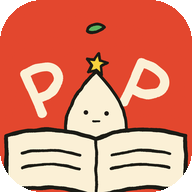
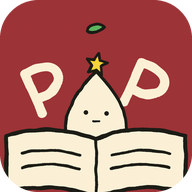
Add files via upload

diff --git a/index.html b/index.html
@@ -16,17 +16,17 @@
 <link rel="preconnect" href="https://fonts.googleapis.com">
 <link rel="preconnect" href="https://fonts.gstatic.com" crossorigin>
 <link rel="stylesheet" href="https://fonts.googleapis.com/css2?family=LXGW+WenKai+TC:wght@400;700&display=swap">
-<link rel="stylesheet" href="https://fonts.googleapis.com/css2?family=Huninn&display=swap">
+<link rel="stylesheet" href="https://fonts.googleapis.com/css2?family=Noto+Serif+TC:wght@400;600;700&display=swap">
 <link rel="stylesheet" href="https://fonts.googleapis.com/css2?family=Noto+Sans+TC:wght@400;500;700&family=Source+Serif+4:opsz,wght@8..60,400;8..60,600&display=swap">
 <style>
 /* Layout: doodle sticker-book shell — cream grainy desk, thick hand-drawn outlines on chrome only (pages stay quiet), greeting + big open-file card with Pip standing on it, bottom tab bar; landscape iPad pins translations in a right column. */
 :root{
   --desk:#FFF2DA; --chrome:#FFFBF1; --ink:#1E1A17; --muted:#6E6155; --line:#1E1A17;
-  --accent:#E8452C; --accent-ink:#1E1A17; --mustard:#F6D23E; --leaf:#5DB35E; --sky:#7DA0BE;
-  --soft:#FFE3D6; --hl:rgba(246,210,62,.6); --sel:rgba(232,69,44,.25);
+  --accent:#9B2F35; --accent-ink:#FFF6EC; --mustard:#F6D23E; --leaf:#5DB35E; --sky:#7DA0BE;
+  --soft:#F6E0DC; --hl:rgba(246,210,62,.6); --sel:rgba(155,47,53,.25);
   --warn-bg:#FFE07A; --warn-ink:#1E1A17; --err:#B5281A;
   --hard:3px 3px 0 var(--line); --hard-lg:5px 5px 0 var(--line);
-  --f-ui:"Huninn","Noto Sans TC","PingFang TC","Microsoft JhengHei",system-ui,sans-serif;
+  --f-ui:"Noto Serif TC","Songti TC","PMingLiU","MingLiU",serif;
   --f-hand:"LXGW WenKai TC","Kaiti TC","DFKai-SB","BiauKai",serif;
   --f-en:"Source Serif 4",Georgia,"Times New Roman",serif;
   --r1:20px 16px 22px 18px; --r2:14px 18px 12px 16px;
@@ -35,12 +35,12 @@
 }
 @media (prefers-color-scheme: dark){:root:not([data-theme="light"]){
   --desk:#221C17; --chrome:#2F2720; --ink:#FFF2DA; --muted:#CDBEAC; --line:#FFF2DA;
-  --accent:#FF6A4D; --accent-ink:#1E1A17; --mustard:#F6D23E; --leaf:#7CCB7D; --sky:#9AB9D3;
+  --accent:#D9606A; --accent-ink:#1E1A17; --mustard:#F6D23E; --leaf:#7CCB7D; --sky:#9AB9D3;
   --soft:#4A2A22; --hl:rgba(246,210,62,.38); --sel:rgba(255,106,77,.32);
   --warn-bg:#5A4712; --warn-ink:#FFF2DA; --err:#FF8A73; color-scheme:dark}}
 :root[data-theme="dark"]{
   --desk:#221C17; --chrome:#2F2720; --ink:#FFF2DA; --muted:#CDBEAC; --line:#FFF2DA;
-  --accent:#FF6A4D; --accent-ink:#1E1A17; --mustard:#F6D23E; --leaf:#7CCB7D; --sky:#9AB9D3;
+  --accent:#D9606A; --accent-ink:#1E1A17; --mustard:#F6D23E; --leaf:#7CCB7D; --sky:#9AB9D3;
   --soft:#4A2A22; --hl:rgba(246,210,62,.38); --sel:rgba(255,106,77,.32);
   --warn-bg:#5A4712; --warn-ink:#FFF2DA; --err:#FF8A73; color-scheme:dark}
 
@@ -116,7 +116,7 @@ body.side #viewer{margin-right:calc(var(--sideW) + 20px)}
 .recent{display:flex;flex-direction:column;gap:12px}
 .rrow{display:flex;align-items:center;gap:14px;padding:12px 16px;background:var(--chrome);border:2.5px solid var(--line);border-radius:var(--r1);cursor:pointer;box-shadow:var(--hard)}
 .rrow:active{transform:translate(2px,2px);box-shadow:1px 1px 0 var(--line)}
-.rrow:nth-child(3n+1) .kind{background:var(--accent)} .rrow:nth-child(3n+2) .kind{background:var(--mustard)} .rrow:nth-child(3n) .kind{background:var(--sky)}
+.rrow:nth-child(3n+1) .kind{background:var(--accent);color:var(--accent-ink)} .rrow:nth-child(3n+2) .kind{background:var(--mustard)} .rrow:nth-child(3n) .kind{background:var(--sky)}
 .kind{flex:none;width:48px;height:48px;border-radius:14px 12px 16px 10px;border:2.5px solid #1E1A17;color:#1E1A17;display:grid;place-items:center;font-weight:700;font-size:15px}
 .rname{flex:1;min-width:0}
 .rname b{display:block;font-size:16.5px;font-weight:700;white-space:nowrap;overflow:hidden;text-overflow:ellipsis}
@@ -146,7 +146,7 @@ body.side #viewer{margin-right:calc(var(--sideW) + 20px)}
 .tabbar{position:fixed;z-index:15;left:50%;transform:translateX(-50%);bottom:calc(12px + env(safe-area-inset-bottom,0px));width:min(620px,calc(100% - 24px));display:grid;grid-template-columns:repeat(5,1fr);gap:6px;padding:6px;background:var(--chrome);border:2.5px solid var(--line);border-radius:26px 22px 28px 24px;box-shadow:var(--hard-lg)}
 .tabbar button{font:inherit;font-size:12.5px;font-weight:700;border:2.5px solid transparent;background:transparent;color:var(--muted);border-radius:18px 14px 20px 16px;padding:6px 4px 5px;display:flex;flex-direction:column;align-items:center;gap:2px;cursor:pointer}
 .tabbar svg{width:24px;height:24px;stroke:currentColor;fill:none;stroke-width:2.2;stroke-linecap:round;stroke-linejoin:round}
-.tabbar button[aria-current="page"]{background:var(--accent);color:#1E1A17;border-color:#1E1A17}
+.tabbar button[aria-current="page"]{background:var(--accent);color:var(--accent-ink);border-color:#1E1A17}
 
 /* translation card: floating (portrait) / bottom sheet (phone) / right column (landscape iPad) */
 #pop{position:fixed;z-index:20;width:400px;max-width:calc(100vw - 24px);max-height:min(60vh,520px);overflow:auto;background:var(--chrome);color:var(--ink);border:2.5px solid var(--line);border-radius:22px 18px 24px 20px;box-shadow:var(--hard-lg);padding:14px 16px 16px}
@@ -347,7 +347,7 @@ body.annon #focusExit{display:none}
 body.annon #pop.side{bottom:calc(120px + env(safe-area-inset-bottom,0px))}
 #annBar .done{background:var(--accent);color:var(--accent-ink);font:inherit;font-weight:700;border:2px solid var(--line);border-radius:11px;padding:3px 12px;min-height:32px;cursor:pointer}
 #capLayer{position:fixed;z-index:40;cursor:crosshair;background:rgba(30,26,23,.12);touch-action:none}
-#capBox{position:absolute;border:2.5px dashed var(--accent);background:rgba(232,69,44,.08)}
+#capBox{position:absolute;border:2.5px dashed var(--accent);background:rgba(155,47,53,.1)}
 .capcancel{position:absolute;top:10px;left:50%;transform:translateX(-50%);font:700 14px var(--f-ui);border:2.5px solid #1E1A17;border-radius:12px;background:var(--mustard);color:#1E1A17;padding:6px 12px;cursor:pointer}
 /* highlight colors */
 .tl span.mk-y,#article .ap.mk-y{background:rgba(242,190,30,.4)}
@@ -2499,6 +2499,7 @@ function eraseAt(S,p,cur){
     if(st.pts.some((q,j)=>segD(p,j?st.pts[j-1]:q,q)<rr)){ cur.removed.push({s:st,i}); arr.splice(i,1); hit=true; } }
   if(hit) paintSurface(S);
 }
+function snapLine(a,b){ const dx=b[0]-a[0], dy=b[1]-a[1], t=Math.tan(8*Math.PI/180); if(Math.abs(dy)<=Math.abs(dx)*t) return [b[0],a[1],0.5]; if(Math.abs(dx)<=Math.abs(dy)*t) return [a[0],b[1],0.5]; return [b[0],b[1],0.5]; }
 function attachInk(S){
   const cv=S.cv; let cur=null, pid=null;
   const pos=e=>{ const r=cv.getBoundingClientRect(), k=S.k(); return [Math.round((e.clientX-r.left)/k*10)/10,Math.round((e.clientY-r.top)/k*10)/10,e.pointerType==="pen"?Math.round((e.pressure||0.5)*100)/100:0.5]; };
@@ -2512,16 +2513,21 @@ function attachInk(S){
     e.preventDefault(); try{ cv.setPointerCapture(e.pointerId); }catch(err){} pid=e.pointerId;
     const p=pos(e);
     if(INK.tool==="eraser"){ cur={erase:true,removed:[]}; eraseAt(S,p,cur); return; }
-    cur={t:INK.tool==="hl"?"hl":"pen",c:INK.color,w:Math.round((INK.tool==="hl"?HL_W:PEN_W)[INK.size]/S.k()*100)/100,pts:[p]};
-    paintSurface(S,cur);
+    cur={t:INK.tool==="hl"?"hl":"pen",c:INK.color,w:Math.round((INK.tool==="hl"?HL_W:PEN_W)[INK.size]/S.k()*100)/100,pts:[p],hp:p};
+    paintSurface(S,cur); holdArm();
   });
   cv.addEventListener("pointermove",e=>{
     if(!cur||e.pointerId!==pid) return; e.preventDefault();
+    if(cur.straight){ const q=pos(e); cur.pts=[cur.pts[0],snapLine(cur.pts[0],q)]; paintSurface(S,cur); return; }
+    if(!cur.erase){ const q=pos(e); if(Math.hypot(q[0]-cur.hp[0],q[1]-cur.hp[1])>4/S.k()){ cur.hp=q; holdArm(); } }
     let evs=e.getCoalescedEvents?e.getCoalescedEvents():[]; if(!evs.length) evs=[e];
     for(const ev of evs){ const p=pos(ev); if(cur.erase) eraseAt(S,p,cur); else { const l=cur.pts[cur.pts.length-1]; if(Math.abs(l[0]-p[0])+Math.abs(l[1]-p[1])>0.6/S.k()) cur.pts.push(p); } }
     if(!cur.erase) paintSurface(S,cur);
   });
-  const end=e=>{ if(!cur||e.pointerId!==pid) return; const c=cur; cur=null; pid=null;
+  function holdArm(){ clearTimeout(holdT); holdT=setTimeout(()=>{ if(!cur||cur.erase||cur.straight) return; const a=cur.pts[0], b=cur.pts[cur.pts.length-1];
+    if(Math.hypot(b[0]-a[0],b[1]-a[1])<24/S.k()) return; cur.straight=true; cur.pts=[[a[0],a[1],0.5],snapLine(a,[b[0],b[1],0.5])]; paintSurface(S,cur); },550); }
+  let holdT=null;
+  const end=e=>{ if(!cur||e.pointerId!==pid) return; clearTimeout(holdT); const c=cur; cur=null; pid=null; delete c.hp; delete c.straight;
     if(c.erase){ if(c.removed.length){ pushUndo({S,op:"erase",items:c.removed}); S.changed(); } return; }
     S.arr(true).push(c); pushUndo({S,op:"add",s:c}); S.changed(); paintSurface(S); if(S.grow) S.grow(c); };
   cv.addEventListener("pointerup",end); cv.addEventListener("pointercancel",end);
@@ -2566,7 +2572,7 @@ document.addEventListener("keydown",e=>{ if((e.ctrlKey||e.metaKey)&&e.key.toLowe
 function setAnn(on){
   if(on&&(!doc||doc.type!=="pdf"||doc.dual)) return;
   annOn=on; document.body.classList.toggle("annon",on); $("#annBar").hidden=!on; $("#annBtn").classList.toggle("on",on);
-  if(on){ closePop(); hideSel(); $("#layMenu").hidden=true; if(INK.tool==="eraser") INK.tool="pen"; syncInkBar(); toast(penSeen||!("ontouchstart" in window)?"在頁面上直接寫，寫完按「完成」":"用觸控筆或滑鼠在頁面上寫；手指會捲動頁面"); }
+  if(on){ closePop(); hideSel(); $("#layMenu").hidden=true; if(INK.tool==="eraser") INK.tool="pen"; syncInkBar(); toast(penSeen||!("ontouchstart" in window)?"在頁面上直接寫，寫完按「完成」。畫到終點停一下，線會自動拉直":"用觸控筆或滑鼠在頁面上寫；手指會捲動頁面"); }
   placeInkBar();
 }
 $("#annBtn").onclick=()=>setAnn(!annOn);
@@ -2772,7 +2778,7 @@ function linkRefs(h){
 
 /* ================= Mind map ================= */
 let mmSrc="all", mmZoom=1, mmBusy=null; const mmCol=new Set();
-const MMC=["#E8452C","#2F6FD0","#2E9A55","#F08A24","#8A4FD0","#D9A400","#C2417A"];
+const MMC=["#C0453F","#2F6FD0","#2E9A55","#F08A24","#8A4FD0","#D9A400","#C2417A"];
 const normQ=s=>String(s||"").toLowerCase().replace(/[^a-z0-9]+/g," ").trim();
 function mineText(){
   const m=doc.meta, parts=[];
@@ -2850,7 +2856,7 @@ function mapSVG(tree,forImage){
   walk(tree,n=>{ if(n._open) n.c.forEach(c=>{ const x1=n._x+n._w+(n.c.length?10:0), y1=n._y+off+n._h/2, x2=c._x, y2=c._y+off+c._h/2, mx=(x1+x2)/2;
     g+='<path d="M'+x1+","+y1+" C"+mx+","+y1+" "+mx+","+y2+" "+x2+","+y2+'" fill="none" stroke="'+c._col+'" stroke-width="2.5" stroke-opacity=".7"/>'; }); });
   walk(tree,n=>{
-    const x=n._x, yy=n._y+off, root=n._d===0, fill=root?"#E8452C":n._d===1?n._col:"#FFFDF8", tc=root||n._d===1?"#FFFFFF":"#1E1A17";
+    const x=n._x, yy=n._y+off, root=n._d===0, fill=root?"#9B2F35":n._d===1?n._col:"#FFFDF8", tc=root||n._d===1?"#FFFFFF":"#1E1A17";
     g+='<g class="mmn" data-id="'+n._id+'"'+(n.pid!=null?' data-pid="'+n.pid+'"':"")+'><rect x="'+x+'" y="'+yy+'" width="'+n._w+'" height="'+n._h+'" rx="12" fill="'+fill+'" stroke="'+(n._d===2||n._d>2?n._col:"#1E1A17")+'" stroke-width="2"/>';
     n._lines.forEach((l,i)=>{ g+='<text x="'+(x+14)+'" y="'+(yy+8+(i+1)*(n._fs+6)-5)+'" font-size="'+n._fs+'" font-weight="'+(n._d<2?700:400)+'" fill="'+tc+'" font-family=\''+MMF+'\'>'+esc(l)+"</text>"; });
     if(n.p){ const px=x+n._w-40, py=yy+n._h/2-10; g+='<rect x="'+px+'" y="'+py+'" width="32" height="20" rx="10" fill="#BFD9F2" stroke="#1E1A17" stroke-width="1.2"/><text x="'+(px+16)+'" y="'+(py+14)+'" font-size="11" font-weight="700" text-anchor="middle" fill="#1E1A17" font-family=\''+MMF+'\'>'+(doc.type==="pdf"?"p."+n.p:"¶"+n.p)+"</text>"; }
@@ -3036,7 +3042,7 @@ async function toDOCX(title,P){
 async function toPPTX(title,P){
   await loadLib(()=>window.PptxGenJS,"https://cdnjs.cloudflare.com/ajax/libs/pptxgenjs/3.12.0/pptxgen.bundle.js");
   const px=new PptxGenJS(); px.layout="LAYOUT_WIDE"; px.title=title;
-  const F="Microsoft JhengHei", RED="E8452C", INKC="1E1A17";
+  const F="Microsoft JhengHei", RED="9B2F35", INKC="1E1A17";
   const t0=px.addSlide(); t0.background={color:"FFF2DA"};
   t0.addText(title,{x:0.8,y:2.3,w:11.7,h:1.6,fontFace:F,fontSize:34,bold:true,color:INKC});
   t0.addText("閱讀筆記 · 匯出自 Pip · "+new Date().toLocaleDateString("zh-TW"),{x:0.8,y:4.0,w:11.7,h:0.6,fontFace:F,fontSize:16,color:"6B625A"});

diff --git a/sw.js b/sw.js
@@ -1,5 +1,5 @@
 // Pip：離線快取。App 本體優先抓最新版；字典、PDF 元件、繁體轉換和字型存起來重複使用。
-const V = "pip-v10";
+const V = "pip-v13";
 const SHELL = ["./", "./index.html", "./manifest.webmanifest", "./icon-192.png", "./icon-512.png", "./apple-touch-icon.png"];
 
 self.addEventListener("install", e => {
